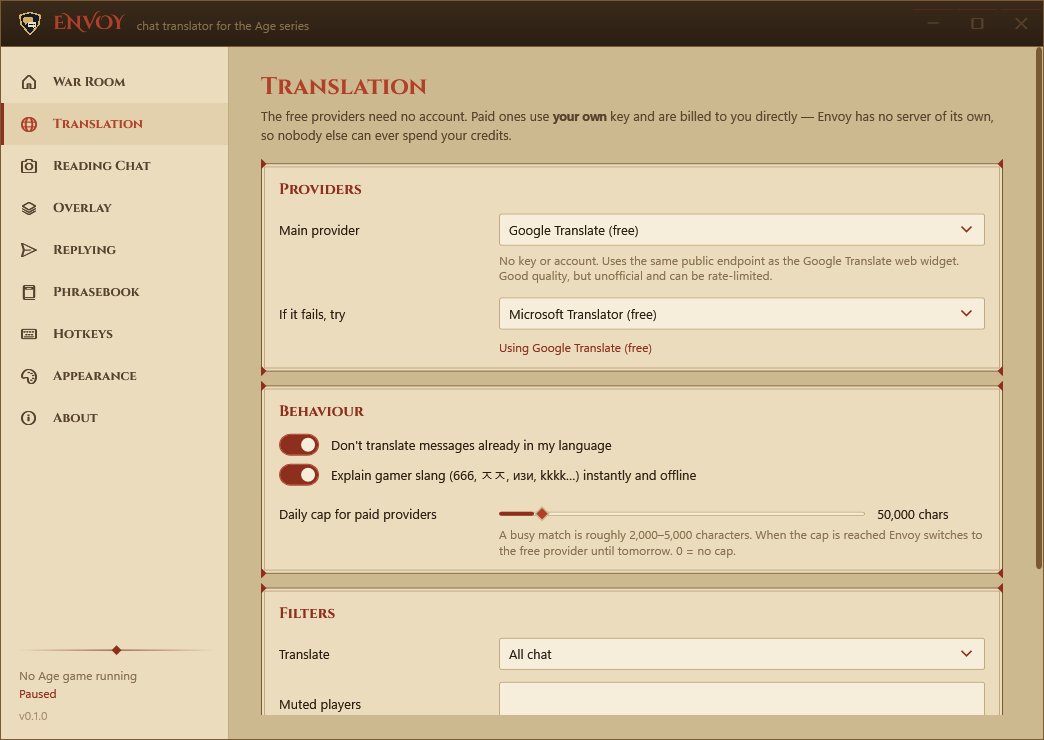
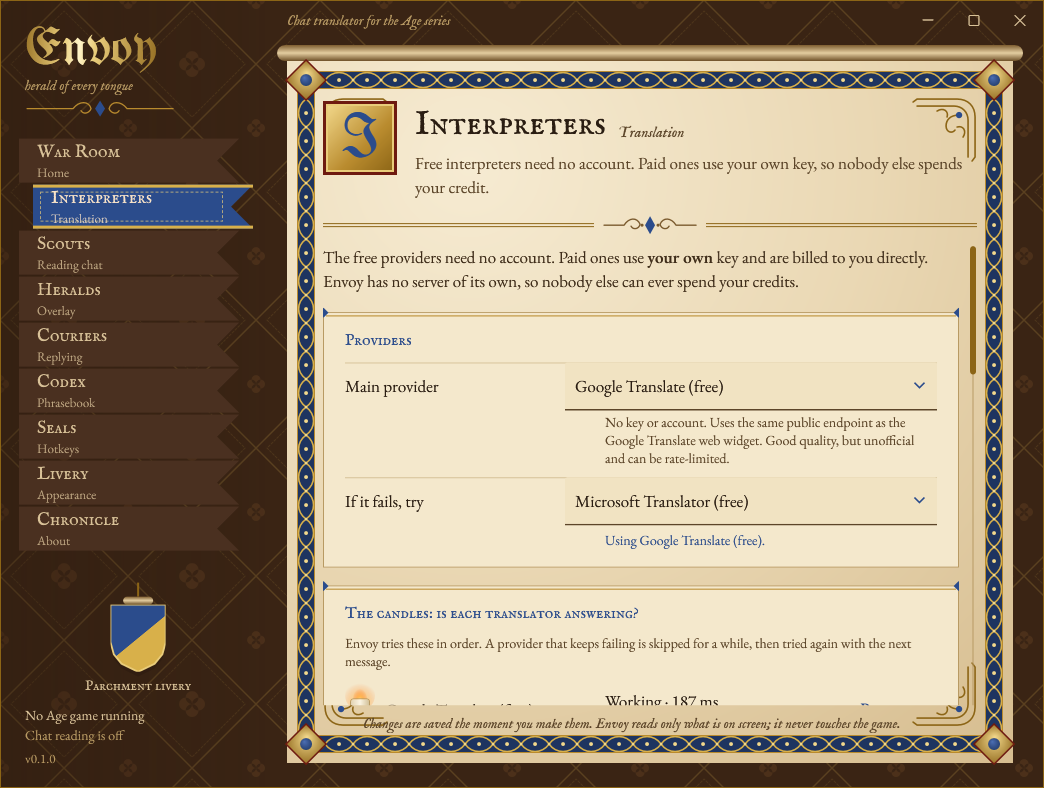
Docs: refresh docs/images with the Herald's Writ screenshots
Copied from ci-screenshots (run for 8a08ecd), plus herald War Room, overlay,
reply box and setup guide images. Closes 09a's last open item (REQ-HRD-13);
the spec's Status and Deviation 12 say so.

Claude-Session: https://claude.ai/code/session_01C7P4Eriyt2bA27jeGYfnUh

diff --git a/docs/specs/09a-herald-redesign.md b/docs/specs/09a-herald-redesign.md
@@ -1,7 +1,6 @@
 # The Herald's Writ: visual redesign of every window
 
-Status: Implemented (step 12, after 08b) except one open item: REQ-HRD-13's refresh of `docs/images/` waits for the
-first Windows CI screenshots of this look (Deviation 12). Revised against `00-integration.md` (binding); where this spec adds a
+Status: Implemented (step 12, after 08b). `docs/images/` holds the Windows CI screenshots of this look (Deviation 12). Revised against `00-integration.md` (binding); where this spec adds a
 shared concept it names the owner here. Differences from the text below are under Deviations.
 
 Area id: `09a-herald-redesign` · Requirement prefix: `HRD`.
@@ -169,10 +168,11 @@ figure captions), `LanguageSeal` (overlay seals), `ProviderCandle` (candles) and
     now names the soak host's exception (finding 4).
 12. **Verification** (REQ-HRD-13): the smoke sections are `herald-fonts`, `war-table({palette})`,
     `herald-controls({palette})`, `desk({palette})` and `oath({palette})`, beside the existing `pages({palette})`;
-    the setup-guide screenshots are now taken for `herald` instead of `imperial`. `docs/images/` is not refreshed in
-    this change: the new screenshots exist only after the Windows CI run on `main` (the `ci-screenshots` branch still
-    holds the previous look), so they are copied from `ci-screenshots` in a follow-up task. Until then REQ-HRD-13 is
-    open, and the Status line says so. A new manual step, M-HRD-1, compares every window with the references. The CI
+    the setup-guide screenshots are now taken for `herald` instead of `imperial`. `docs/images/` was refreshed in
+    a follow-up commit, once the Windows CI run on `main` had published the new look to `ci-screenshots`; it also gained
+    four `herald-*` images (War Room, overlay, reply box, setup guide). That run showed the reply box taller than the
+    768 px CI screen, which cut off its footer, so the desk is capped at the work area, its phrase ribbons scroll and the
+    `desk` smoke check asserts that "Seal and send" ends inside the window and the window inside the work area. A new manual step, M-HRD-1, compares every window with the references. The CI
     desktop is 1024x768 and Windows keeps a window within the screen, so the `war-table` section drives the marginal
     column's rule with a 1180 px width directly (`MainWindow.LayoutWarTable`) and checks that the real window agrees with
     `PageHeadings.ShowsMarginalia` at whatever width the screen allows; CI screenshots of the settings window therefore
